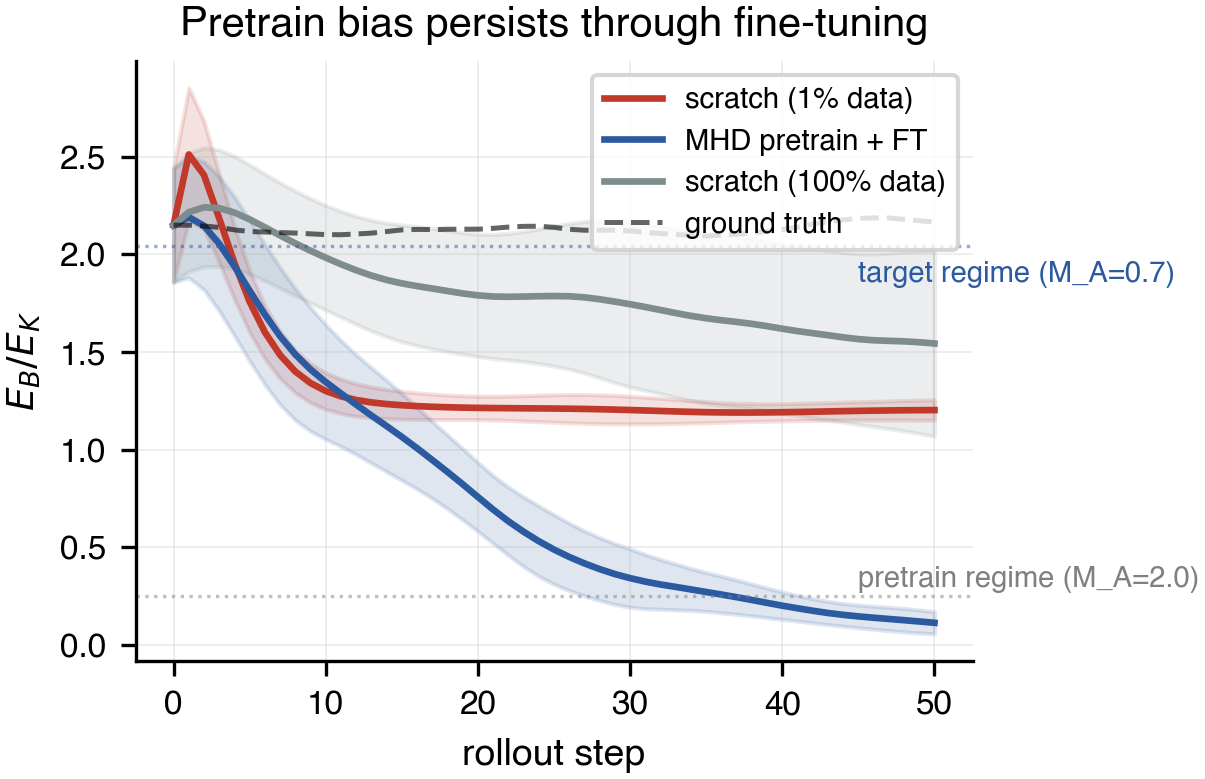
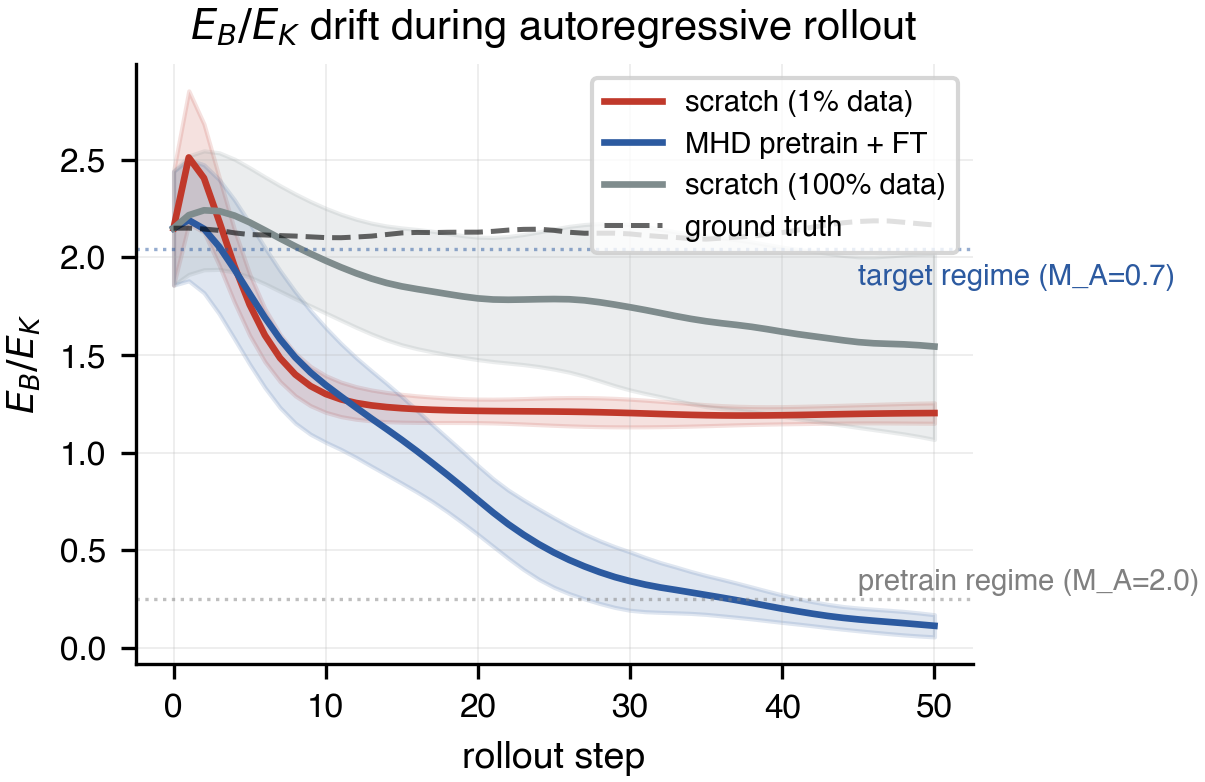
paper: local pdflatex build, fix figure titles + bib style
Confirmed clean compile via tectonic:
  9 pages, 0 errors, 19/19 citations resolved, all cross-refs valid.

Changes from build/visual inspection:
- \citep (1 use) → \cite (matches the 12 other \cite uses and works
  without natbib author-year mode)
- \bibliographystyle{plain} → abbrvnat (natbib is loaded by
  neurips_2024.sty, plain is incompatible with author-year mode)
- fig1 title "Physics-specific transfer…" → "Matched-architecture
  transfer at 1% target data" (matches paper §4.2 framing)
- fig4 title "pretraining flips failure mode" → "fine-tuning
  introduces late instability" (matches §4.3 OOD control finding)
- fig5 title "Pretrain bias persists through fine-tuning" →
  "E_B/E_K drift during autoregressive rollout" (the old title
  implied pretrain-bias-inheritance which our OOD control refutes)
- fig1 bar labels shortened to prevent overlap at ~0.55linewidth

Repo is now self-contained for local build:
+ p1/paper/neurips_2024.sty   (fetched from media.neurips.cc)
  Can compile with: cd p1/paper && tectonic -X compile main.tex

diff --git a/p1/paper/make_figures.py b/p1/paper/make_figures.py
@@ -98,9 +98,9 @@ def fig1_headline():
     ]
 
     bars = [
-        ("from scratch\n(matched arch h=48,\nlr-tuned)", float(np.mean(matched_scratch)), float(np.std(matched_scratch)), C_SCRATCH),
-        ("NS pretrain + FT\n(non-MHD control,\nh=48, 3 pretrain seeds)", float(np.mean(ns_pts)), float(np.std(ns_pts)), C_NS),
-        ("MHD pretrain + FT\n(h=48, lr-tuned,\n3 pretrain seeds)", float(np.mean(mhd_pts)), float(np.std(mhd_pts)), C_MHD_FT),
+        ("from scratch\n(h=48, 3 seeds)",        float(np.mean(matched_scratch)), float(np.std(matched_scratch)), C_SCRATCH),
+        ("NS pretrain + FT\n(non-MHD, 3 seeds)", float(np.mean(ns_pts)),          float(np.std(ns_pts)),           C_NS),
+        ("MHD pretrain + FT\n(3 seeds)",         float(np.mean(mhd_pts)),         float(np.std(mhd_pts)),          C_MHD_FT),
     ]
     fig, ax = plt.subplots()
     xs = np.arange(len(bars))
@@ -119,7 +119,7 @@ def fig1_headline():
     ax.set_ylabel("best val VRMSE  (mean ± std, 3 seeds)")
     ax.set_ylim(0, max(h) + max(e) + 0.10)
     ax.grid(axis="y", alpha=0.25)
-    ax.set_title("Physics-specific transfer at 1% target data", fontsize=10)
+    ax.set_title("Matched-architecture transfer at 1% target data", fontsize=10)
     save(fig, "fig1_headline_physics_specificity", width_in=3.6, height_in=2.8)
 
 
@@ -240,7 +240,7 @@ def fig4_long_horizon():
     ax.set_ylabel("VRMSE vs ground truth")
     ax.set_yscale("log")
     ax.legend(loc="upper left", fontsize=8)
-    ax.set_title("Long-horizon rollout — pretraining flips failure mode", fontsize=10)
+    ax.set_title("Long-horizon rollout — fine-tuning introduces late instability", fontsize=10)
     save(fig, "fig4_long_horizon_failure", width_in=3.6, height_in=2.6)
 
 
@@ -273,7 +273,7 @@ def fig5_equipartition():
     ax.text(45, 1/2.0**2 + 0.05, "pretrain regime (M_A=2.0)", fontsize=7, color="gray")
     ax.set_xlabel("rollout step"); ax.set_ylabel(r"$E_B / E_K$")
     ax.legend(loc="upper right", fontsize=7)
-    ax.set_title("Pretrain bias persists through fine-tuning", fontsize=10)
+    ax.set_title(r"$E_B/E_K$ drift during autoregressive rollout", fontsize=10)
     save(fig, "fig5_equipartition_drift", width_in=3.6, height_in=2.6)
 
 

diff --git a/p1/paper/main.tex b/p1/paper/main.tex
@@ -28,7 +28,7 @@ What Generalizes, What Doesn't, and Why It Matters for Plasma Foundation Models}
 \maketitle
 
 \begin{abstract}
-We study which components of neural PDE surrogate training transfer between two regimes of magnetohydrodynamic (MHD) turbulence, using the same architecture (FNO3D, 18.6\,M parameters) and the same dataset family (Polymathic AI's \emph{Well} MHD\_64). With matched-architecture hyperparameter tuning on both sides and three pretraining seeds per condition, pretraining on super-Alfv\'enic isotropic MHD (M$_A$=2.0) and fine-tuning on sub-Alfv\'enic anisotropic MHD with a guide field (M$_A$=0.7) yields a 35\% reduction in validation VRMSE at 1\% target data. A non-MHD pretraining control on supernova hydrodynamics data underperforms the matched scratch baseline by 14\%, consistent with negative transfer under wrong-domain pretraining --- though this control has structural confounds (boundary conditions, timestep structure, channel count, SPH origin) that prevent a clean isolation of physics-as-cause. The transfer is asymmetric across physics features: pretraining preserves the perpendicular turbulent cascade and short-horizon accuracy, but fine-tuning introduces a new late-stage rollout instability, making long-horizon (step-50) VRMSE $\approx$3.5$\times$ worse than the un-fine-tuned zero-shot pretrain model and $\approx$5.5$\times$ worse than the from-scratch 1\%-data baseline --- with per-trajectory consistency across 10 held-out test trajectories. An out-of-distribution control confirms that a guide-field collapse is a property of any M$_A$=2.0-trained model evaluated on M$_A$=0.7, while a new late-stage magnetic-energy growth emerges specifically from fine-tuning. Our results highlight that domain-matched pretraining transfers spatial statistics with high sample-efficiency on the downstream task, but reliable long-horizon emulation requires training objectives and architectural choices beyond one-step accuracy --- consistent with the autoregressive-stability literature \citep{mccabe2023stability,lippe2023pderefiner}.
+We study which components of neural PDE surrogate training transfer between two regimes of magnetohydrodynamic (MHD) turbulence, using the same architecture (FNO3D, 18.6\,M parameters) and the same dataset family (Polymathic AI's \emph{Well} MHD\_64). With matched-architecture hyperparameter tuning on both sides and three pretraining seeds per condition, pretraining on super-Alfv\'enic isotropic MHD (M$_A$=2.0) and fine-tuning on sub-Alfv\'enic anisotropic MHD with a guide field (M$_A$=0.7) yields a 35\% reduction in validation VRMSE at 1\% target data. A non-MHD pretraining control on supernova hydrodynamics data underperforms the matched scratch baseline by 14\%, consistent with negative transfer under wrong-domain pretraining --- though this control has structural confounds (boundary conditions, timestep structure, channel count, SPH origin) that prevent a clean isolation of physics-as-cause. The transfer is asymmetric across physics features: pretraining preserves the perpendicular turbulent cascade and short-horizon accuracy, but fine-tuning introduces a new late-stage rollout instability, making long-horizon (step-50) VRMSE $\approx$3.5$\times$ worse than the un-fine-tuned zero-shot pretrain model and $\approx$5.5$\times$ worse than the from-scratch 1\%-data baseline --- with per-trajectory consistency across 10 held-out test trajectories. An out-of-distribution control confirms that a guide-field collapse is a property of any M$_A$=2.0-trained model evaluated on M$_A$=0.7, while a new late-stage magnetic-energy growth emerges specifically from fine-tuning. Our results highlight that domain-matched pretraining transfers spatial statistics with high sample-efficiency on the downstream task, but reliable long-horizon emulation requires training objectives and architectural choices beyond one-step accuracy --- consistent with the autoregressive-stability literature~\cite{mccabe2023stability,lippe2023pderefiner}.
 \end{abstract}
 
 \section{Introduction}
@@ -173,7 +173,7 @@ Our findings are conditional on a single architecture (FNO3D at 18.6\,M paramete
 Under matched architecture and tuning, MHD pretraining produces a 35\% reduction in 1\%-data target VRMSE on sub-Alfv\'enic MHD and preserves the perpendicular cascade. The same architecture pretrained on a distant non-MHD corpus underperforms scratch by 14\%. But the pretrained fine-tuned model's long-horizon rollouts are unstable in a way that an OOD zero-FT control shows emerges specifically during fine-tuning, not from pretraining. For plasma foundation models, these results argue for domain-aligned pretraining corpora \emph{and} explicit architectural or training-time support for conservation and long-horizon stability, rather than relying on pretraining scale alone.
 
 \small
-\bibliographystyle{plain}
+\bibliographystyle{abbrvnat}
 \bibliography{references}
 
 \end{document}